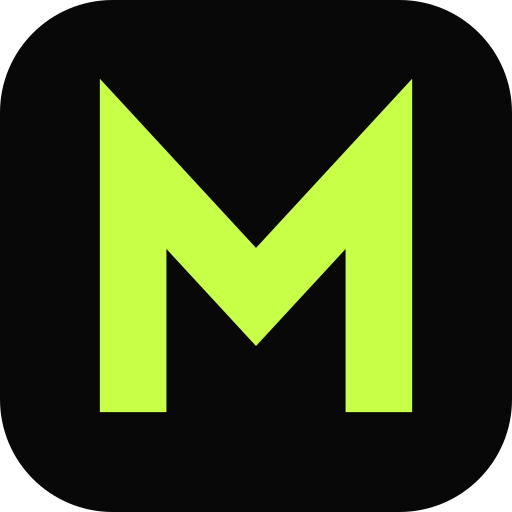
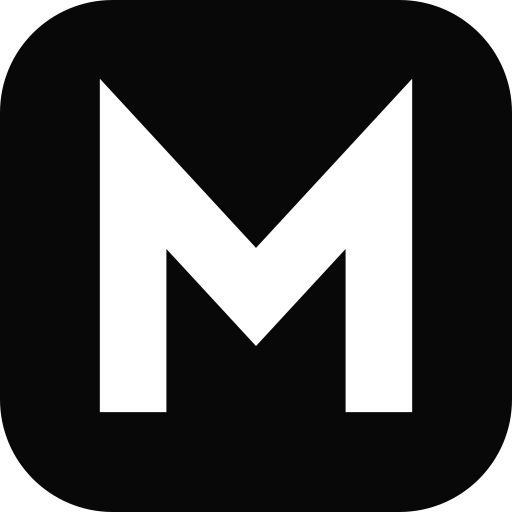
Make the site black and white
The owner asked for the lime green (#C8FF47) to go: a black and white
site. Everything that was lime is now white — primary buttons (black
text on white, light grey on hover), focus rings, text selection, the
rotating word and highlights, active chips and toggles, the cursor dot,
the brief's progress steps, stars, dots and lines.

Almost all of it ran through one variable, so the change is mostly in
app/globals.css: --lime is white now (black on the unused light theme).
The name stays so every maze-lime class keeps working. Text and hover
colours on accent-filled elements became variables too (--on-accent,
--accent-hover), so a black accent on the light theme would get white
text instead of black on black.

The rest were literal values: the hero's dot grid and glows, the CTA
and about-card glows, the cursor, the root 404 and error pages, the
social-card default accent, and the glass-button styles. The services
index and its social cards gave each service its own colour (lime,
blue, gold, teal, orange, amber, violet); they all use the one accent
now. The app icons (home screen, manifest) are a white M on black,
regenerated with npm run icons.

The admin keeps its lime: its layout sets the variables back for its
own pages, and its hardcoded colours are untouched.

Checked: a scan of the computed styles on twelve public pages finds no
coloured element left outside photos and project covers; e2e 9/9;
production build.
[…]

Changed region(s): [[0.1875, 0.1562, 0.8125, 0.8125]]

diff --git a/app/globals.css b/app/globals.css
@@ -15,7 +15,15 @@
   --border:  37 37 37;
   --text:    237 235 227;
   --muted:   90 90 90;
-  --lime:    200 255 71;
+  /* The accent. The site is black and white: this was lime (#C8FF47) and
+     is now white — primary buttons, focus rings, highlights, selection.
+     The name stays so every `maze-lime` class keeps working. The admin
+     keeps its lime: app/admin/layout.tsx sets these back for its pages. */
+  --lime:    255 255 255;
+  /* On an accent-filled element (a white button): black text, and a light
+     grey when it is hovered. */
+  --on-accent:    10 10 10;
+  --accent-hover: 214 214 214;
 
   /* Legacy hex vars (kept for components not yet on CSS vars) */
   --color-bg:      #080808;
@@ -23,7 +31,7 @@
   --color-border:  #252525;
   --color-text:    #EDEBE3;
   --color-muted:   #5A5A5A;
-  --color-lime:    #C8FF47;
+  --color-lime:    #FFFFFF;
 
   /* ─── Emil Kowalski easing curves ──────────────────────────────── */
   --ease-out:      cubic-bezier(0.23, 1, 0.32, 1);      /* strong ease-out for UI enters */
@@ -42,14 +50,18 @@
   /* Darkened from #7A7870 → #706E64 so muted text clears WCAG AA (4.5:1)
      on the light background (was ~3.96:1). */
   --muted:   112 110 100;
-  --lime:    200 255 71;
+  /* Black and white here too: on a light page the accent is black, and
+     what sits on it is white. */
+  --lime:    10 10 10;
+  --on-accent:    255 255 255;
+  --accent-hover: 51 51 51;
 
   --color-bg:      #F5F4F0;
   --color-surface: #ECEAE2;
   --color-border:  #D0CFC7;
   --color-text:    #0A0A0A;
   --color-muted:   #706E64;
-  --color-lime:    #C8FF47;
+  --color-lime:    #0A0A0A;
 }
 
 /* ─── Base Reset ─────────────────────────────────────────────────────── */
@@ -237,10 +249,10 @@ body {
 
 /* ── Lime (primary CTA) ── */
 .glass-lime {
-  background: rgba(200, 255, 71, 0.11);
+  background: rgba(255, 255, 255, 0.11);
   backdrop-filter: blur(36px) saturate(210%) brightness(1.05);
   -webkit-backdrop-filter: blur(36px) saturate(210%) brightness(1.05);
-  border: 1px solid rgba(200, 255, 71, 0.26);
+  border: 1px solid rgba(255, 255, 255, 0.26);
   box-shadow:
     /* inner rim light — bright edge at top-left */
     inset 0 1.5px 0 rgba(255, 255, 255, 0.38),
@@ -248,12 +260,12 @@ body {
     /* inner depth — darker at bottom */
     inset 0 -1px 0 rgba(0, 0, 0, 0.14),
     /* outer ring — faint lime halo */
-    0 0 0 1px rgba(200, 255, 71, 0.07),
+    0 0 0 1px rgba(255, 255, 255, 0.07),
     /* ambient glow */
-    0 4px 20px rgba(200, 255, 71, 0.16),
+    0 4px 20px rgba(255, 255, 255, 0.16),
     /* base drop shadow */
     0 2px 8px  rgba(0, 0, 0, 0.50);
-  color: #C8FF47;
+  color: #FFFFFF;
   transition:
     background     200ms cubic-bezier(0.23, 1, 0.32, 1),
     box-shadow     200ms cubic-bezier(0.23, 1, 0.32, 1),
@@ -262,24 +274,24 @@ body {
 
 @media (hover: hover) and (pointer: fine) {
   .glass-lime:hover {
-    background: rgba(200, 255, 71, 0.20);
-    border-color: rgba(200, 255, 71, 0.40);
+    background: rgba(255, 255, 255, 0.20);
+    border-color: rgba(255, 255, 255, 0.40);
     box-shadow:
       inset 0 1.5px 0 rgba(255, 255, 255, 0.52),
       inset 1px 0   0 rgba(255, 255, 255, 0.14),
       inset 0 -1px 0 rgba(0, 0, 0, 0.14),
-      0 0 0 1px rgba(200, 255, 71, 0.12),
-      0 8px 36px rgba(200, 255, 71, 0.30),
+      0 0 0 1px rgba(255, 255, 255, 0.12),
+      0 8px 36px rgba(255, 255, 255, 0.30),
       0 3px 14px rgba(0, 0, 0, 0.55);
   }
 }
 
 .glass-lime:active {
-  background: rgba(200, 255, 71, 0.08);
+  background: rgba(255, 255, 255, 0.08);
   box-shadow:
     inset 0 1px 0 rgba(255, 255, 255, 0.25),
     inset 0 -1px 0 rgba(0, 0, 0, 0.10),
-    0 2px 10px rgba(200, 255, 71, 0.12),
+    0 2px 10px rgba(255, 255, 255, 0.12),
     0 1px 3px  rgba(0, 0, 0, 0.40);
   transition-duration: 70ms;
 }
@@ -315,7 +327,7 @@ body {
       0 6px 24px rgba(0, 0, 0, 0.40),
       0 2px 8px  rgba(0, 0, 0, 0.30);
     color: rgb(var(--lime));
-    border-color: rgba(200, 255, 71, 0.25);
+    border-color: rgba(255, 255, 255, 0.25);
   }
 }
 
@@ -329,14 +341,14 @@ body {
 
 /* Light theme overrides for glass */
 .light .glass-lime {
-  background: rgba(100, 160, 0, 0.10);
-  border-color: rgba(100, 160, 0, 0.25);
+  background: rgba(10, 10, 10, 0.08);
+  border-color: rgba(10, 10, 10, 0.25);
   box-shadow:
     inset 0 1.5px 0 rgba(255, 255, 255, 0.50),
     inset 0 -1px 0 rgba(0, 0, 0, 0.08),
-    0 4px 20px rgba(100, 160, 0, 0.15),
+    0 4px 20px rgba(10, 10, 10, 0.12),
     0 2px 6px rgba(0, 0, 0, 0.15);
-  color: #4A7A00;
+  color: #0A0A0A;
 }
 
 .light .glass-clear {

diff --git a/components/home/Hero.tsx b/components/home/Hero.tsx
@@ -45,7 +45,7 @@ export function Hero() {
         <div
           className="absolute inset-0 opacity-[0.28]"
           style={{
-            backgroundImage:  'radial-gradient(circle, rgba(200,255,71,0.38) 1px, transparent 1px)',
+            backgroundImage:  'radial-gradient(circle, rgba(255,255,255,0.38) 1px, transparent 1px)',
             backgroundSize:   '36px 36px',
             maskImage:        'radial-gradient(ellipse 72% 60% at 50% 48%, black 0%, transparent 100%)',
             WebkitMaskImage:  'radial-gradient(ellipse 72% 60% at 50% 48%, black 0%, transparent 100%)',
@@ -54,12 +54,12 @@ export function Hero() {
         {/* Lime ambient glow — top-right, very low opacity ~0.06 */}
         <div
           className="absolute -top-48 -right-48 w-[760px] h-[760px] rounded-full"
-          style={{ background: 'radial-gradient(circle, rgba(200,255,71,0.06) 0%, transparent 65%)' }}
+          style={{ background: 'radial-gradient(circle, rgba(255,255,255,0.06) 0%, transparent 65%)' }}
         />
         {/* Lime ambient glow — bottom-left, very low opacity ~0.06 */}
         <div
           className="absolute -bottom-32 -left-32 w-[560px] h-[560px] rounded-full"
-          style={{ background: 'radial-gradient(circle, rgba(200,255,71,0.06) 0%, transparent 65%)' }}
+          style={{ background: 'radial-gradient(circle, rgba(255,255,255,0.06) 0%, transparent 65%)' }}
         />
       </div>
 
@@ -160,7 +160,7 @@ export function Hero() {
                 href="/brief"
                 className="flex items-center gap-2 px-6 py-3.5 bg-maze-lime text-maze-ink rounded-full label-sm font-bold active:scale-[0.97]"
                 style={{ transition: 'background-color 200ms ease-out, transform 150ms ease-out' }}
-                onMouseEnter={e => { e.currentTarget.style.backgroundColor = '#F0EEE6' }}
+                onMouseEnter={e => { e.currentTarget.style.backgroundColor = 'rgb(var(--accent-hover))' }}
                 onMouseLeave={e => { e.currentTarget.style.backgroundColor = '' }}
               >
                 {t('fillBrief')}

diff --git a/app/(public)/[locale]/services/page.tsx b/app/(public)/[locale]/services/page.tsx
@@ -26,7 +26,10 @@ export async function generateMetadata({ params: { locale } }: Props): Promise<M
   })
 }
 
-const accentColors = ['#C8FF47', '#4B6EF5', '#D4A017', '#06D6A0', '#FF4D1C', '#FF9E00', '#B47AEA']
+// Black and white: every service in the site's one accent. Each used to
+// get a colour of its own (lime, blue, gold, teal, orange, amber, violet).
+const ACCENT      = 'rgb(var(--lime))'
+const ACCENT_LINE = 'rgb(var(--lime) / 0.2)'
 
 export default async function ServicesPage({ params: { locale } }: Props) {
   setRequestLocale(locale)
@@ -76,7 +79,7 @@ export default async function ServicesPage({ params: { locale } }: Props) {
       <div className="px-6 md:px-10">
         <div className="max-w-[1440px] mx-auto">
           {services.map((service, i) => {
-            const accent = accentColors[i % accentColors.length]
+            const accent = ACCENT
             return (
               <div
                 key={service.id}
@@ -88,7 +91,7 @@ export default async function ServicesPage({ params: { locale } }: Props) {
                     <span className="label-sm font-bold" style={{ color: accent }}>
                       {service.num}
                     </span>
-                    <div className="h-px flex-1" style={{ background: accent + '33' }} />
+                    <div className="h-px flex-1" style={{ background: ACCENT_LINE }} />
                   </div>
                   <h2 className="heading-lg text-maze-cream mb-3">{service.title}</h2>
                   <p className="heading-md mb-6" style={{ color: accent }}>{service.tagline}</p>

diff --git a/components/home/InfiniteGrid.tsx b/components/home/InfiniteGrid.tsx
@@ -61,11 +61,11 @@ export function InfiniteGrid() {
             willChange:      'transform',
             backgroundImage: [
               /* glowing dot at each intersection */
-              `radial-gradient(circle, rgba(200,255,71,0.55) 1px, transparent 1px)`,
+              `radial-gradient(circle, rgba(255,255,255,0.55) 1px, transparent 1px)`,
               /* horizontal grid lines */
-              `linear-gradient(rgba(200,255,71,0.10) 1px, transparent 1px)`,
+              `linear-gradient(rgba(255,255,255,0.10) 1px, transparent 1px)`,
               /* vertical grid lines */
-              `linear-gradient(90deg, rgba(200,255,71,0.10) 1px, transparent 1px)`,
+              `linear-gradient(90deg, rgba(255,255,255,0.10) 1px, transparent 1px)`,
             ].join(', '),
             backgroundSize:     `${CELL}px ${CELL}px, ${CELL}px ${CELL}px, ${CELL}px ${CELL}px`,
             backgroundPosition: '0 0',
@@ -143,7 +143,7 @@ export function InfiniteGrid() {
           width:     '480px',
           height:    '240px',
           borderRadius: '50%',
-          background: 'radial-gradient(ellipse, rgba(200,255,71,0.07) 0%, transparent 70%)',
+          background: 'radial-gradient(ellipse, rgba(255,255,255,0.07) 0%, transparent 70%)',
           filter:    'blur(40px)',
         }}
       />

diff --git a/components/home/CTASection.tsx b/components/home/CTASection.tsx
@@ -33,7 +33,7 @@ export function CTASection() {
         <div
           className="absolute top-1/2 left-1/2 -translate-x-1/2 -translate-y-1/2 w-[700px] h-[700px]"
           style={{
-            background: 'radial-gradient(circle, rgba(200,255,71,0.07) 0%, transparent 65%)',
+            background: 'radial-gradient(circle, rgba(255,255,255,0.07) 0%, transparent 65%)',
           }}
         />
       </motion.div>
@@ -98,7 +98,7 @@ export function CTASection() {
               href="/contact"
               className="inline-flex items-center gap-3 px-8 py-4 bg-maze-lime text-maze-ink font-bold rounded-full label-sm active:scale-[0.97]"
               style={{ transition: 'background-color 200ms ease-out, transform 150ms ease-out' }}
-              onMouseEnter={e => { e.currentTarget.style.backgroundColor = '#F0EEE6' }}
+              onMouseEnter={e => { e.currentTarget.style.backgroundColor = 'rgb(var(--accent-hover))' }}
               onMouseLeave={e => { e.currentTarget.style.backgroundColor = '' }}
             >
               {t('button')} ↗

diff --git a/app/error.tsx b/app/error.tsx
@@ -36,7 +36,7 @@ export default function GlobalError({ error, reset }: Props) {
           <p style={{ fontSize: 12, letterSpacing: '0.15em', textTransform: 'uppercase', color: '#5A5A5A' }}>
             Error · 500
           </p>
-          <h1 style={{ fontSize: 'clamp(2.5rem, 8vw, 6rem)', fontWeight: 900, margin: '1rem 0', lineHeight: 0.95, color: '#C8FF47' }}>
+          <h1 style={{ fontSize: 'clamp(2.5rem, 8vw, 6rem)', fontWeight: 900, margin: '1rem 0', lineHeight: 0.95, color: '#FFFFFF' }}>
             Something broke.
           </h1>
           <p style={{ color: '#8A8A8A', fontSize: 18, lineHeight: 1.6, marginBottom: '2rem' }}>
@@ -53,7 +53,7 @@ export default function GlobalError({ error, reset }: Props) {
               style={{
                 padding: '14px 28px',
                 borderRadius: 999,
-                background: '#C8FF47',
+                background: '#FFFFFF',
                 color: '#0A0A0A',
                 fontWeight: 700,
                 border: 'none',

diff --git a/app/not-found.tsx b/app/not-found.tsx
@@ -31,7 +31,7 @@ export default function NotFoundGlobal() {
           <p style={{ fontSize: 12, letterSpacing: '0.15em', textTransform: 'uppercase', color: '#5A5A5A' }}>
             Error · 404
           </p>
-          <h1 style={{ fontSize: 'clamp(3rem, 10vw, 8rem)', fontWeight: 900, margin: '1rem 0', lineHeight: 0.9, color: '#C8FF47' }}>
+          <h1 style={{ fontSize: 'clamp(3rem, 10vw, 8rem)', fontWeight: 900, margin: '1rem 0', lineHeight: 0.9, color: '#FFFFFF' }}>
             Lost in the maze.
           </h1>
           <p style={{ color: '#8A8A8A', fontSize: 18, lineHeight: 1.6, marginBottom: '2rem' }}>
@@ -45,7 +45,7 @@ export default function NotFoundGlobal() {
               gap: 8,
               padding: '14px 28px',
               borderRadius: 999,
-              background: '#C8FF47',
+              background: '#FFFFFF',
               color: '#0A0A0A',
               fontWeight: 700,
               textDecoration: 'none',

diff --git a/app/(public)/[locale]/services/[slug]/opengraph-image.tsx b/app/(public)/[locale]/services/[slug]/opengraph-image.tsx
@@ -6,20 +6,6 @@ export const alt         = 'MAZE Studio — Service'
 export const contentType = OG_CONTENT_TYPE
 export const size        = OG_SIZE
 
-// Matches the accents the services index paints each row with, so a shared
-// link and the page it opens feel like the same thing.
-const ACCENTS: Record<string, string> = {
-  branding:   '#C8FF47',
-  rebranding: '#4B6EF5',
-  identity:   '#D4A017',
-  naming:     '#06D6A0',
-  packaging:  '#FF4D1C',
-  'ui-ux':    '#FF9E00',
-  print:      '#B47AEA',
-  motion:     '#4B6EF5',
-  strategy:   '#C8FF47',
-}
-
 export default async function Image({
   params,
 }: {
@@ -39,6 +25,5 @@ export default async function Image({
     title,
     subtitle: isRu ? 'Ташкент · Центральная Азия' : 'Tashkent · Central Asia',
     footer:   `${slug.toUpperCase()} · MAZE.UZ`,
-    accent:   ACCENTS[slug],
   })
 }

diff --git a/tailwind.config.ts b/tailwind.config.ts
@@ -18,8 +18,11 @@ const config: Config = {
         'maze-muted':  'rgb(var(--muted) / <alpha-value>)',
         'maze-lime':   'rgb(var(--lime) / <alpha-value>)',
         /* Fixed colors — never change with theme */
-        'maze-ink':    '#0A0A0A',   /* always dark — for text on lime buttons */
-        'maze-paper':  '#F0EEE6',   /* always light — for hover on lime buttons */
+        /* Text and hover colour on accent-filled elements (the white
+           buttons). Variables, so a black accent on the light theme gets
+           white text instead of black-on-black. */
+        'maze-ink':    'rgb(var(--on-accent) / <alpha-value>)',
+        'maze-paper':  'rgb(var(--accent-hover) / <alpha-value>)',
       },
       fontFamily: {
         sans: ['var(--font-sans)', 'system-ui', 'sans-serif'],

diff --git a/app/admin/layout.tsx b/app/admin/layout.tsx
@@ -17,7 +17,10 @@ export const metadata: Metadata = {
 export default function AdminRootLayout({ children }: { children: React.ReactNode }) {
   return (
     <>
+      {/* The public site went black and white; the admin keeps its lime.
+          Same variables as app/globals.css, set back for these pages only. */}
       <style>{`
+        :root, .dark { --lime: 200 255 71; --color-lime: #C8FF47; --accent-hover: 240 238 230; }
         body { background: #080808; color: #EDEBE3; }
         * { cursor: auto !important; }
       `}</style>

diff --git a/components/home/AboutSection.tsx b/components/home/AboutSection.tsx
@@ -123,7 +123,7 @@ export function AboutSection() {
               aria-hidden
               className="absolute inset-0 opacity-[0.35]"
               style={{
-                backgroundImage: 'radial-gradient(circle, rgba(200,255,71,0.25) 1px, transparent 1px)',
+                backgroundImage: 'radial-gradient(circle, rgba(255,255,255,0.25) 1px, transparent 1px)',
                 backgroundSize:  '28px 28px',
               }}
             />

diff --git a/components/layout/CustomCursor.tsx b/components/layout/CustomCursor.tsx
@@ -107,7 +107,7 @@ export function CustomCursor() {
         style={{
           width:           10,
           height:          10,
-          backgroundColor: '#C8FF47',
+          backgroundColor: '#FFFFFF',
           mixBlendMode:    blendMode as React.CSSProperties['mixBlendMode'],
           /* Only transform + opacity transitions — Emil's rule */
           transition: `transform 160ms cubic-bezier(0.23,1,0.32,1), opacity 160ms ease`,
